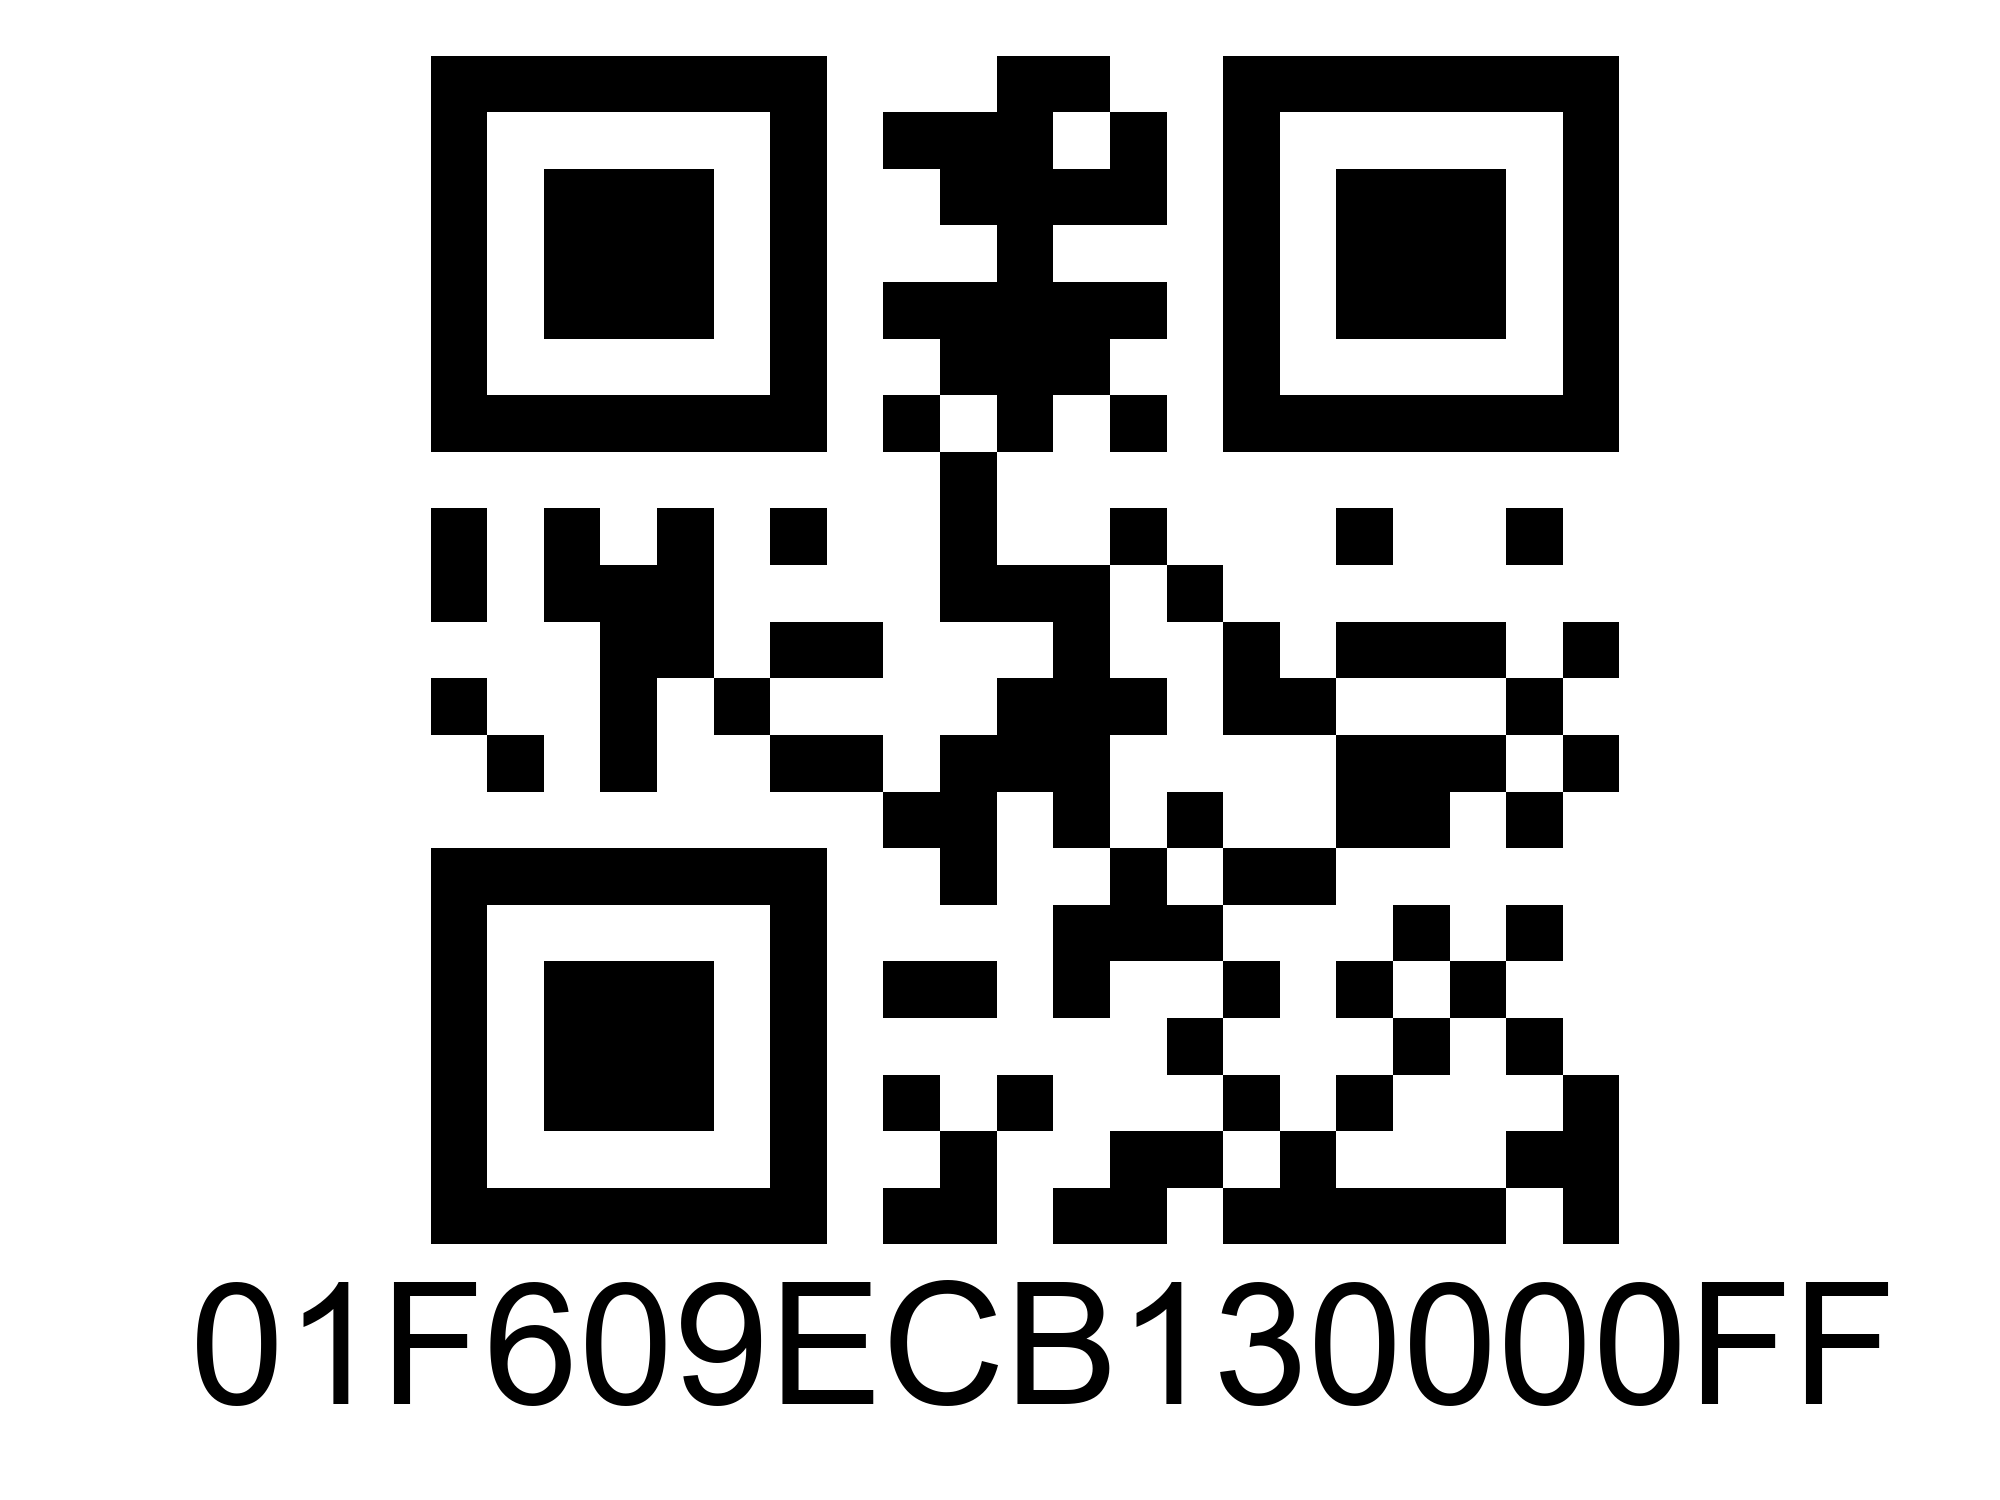
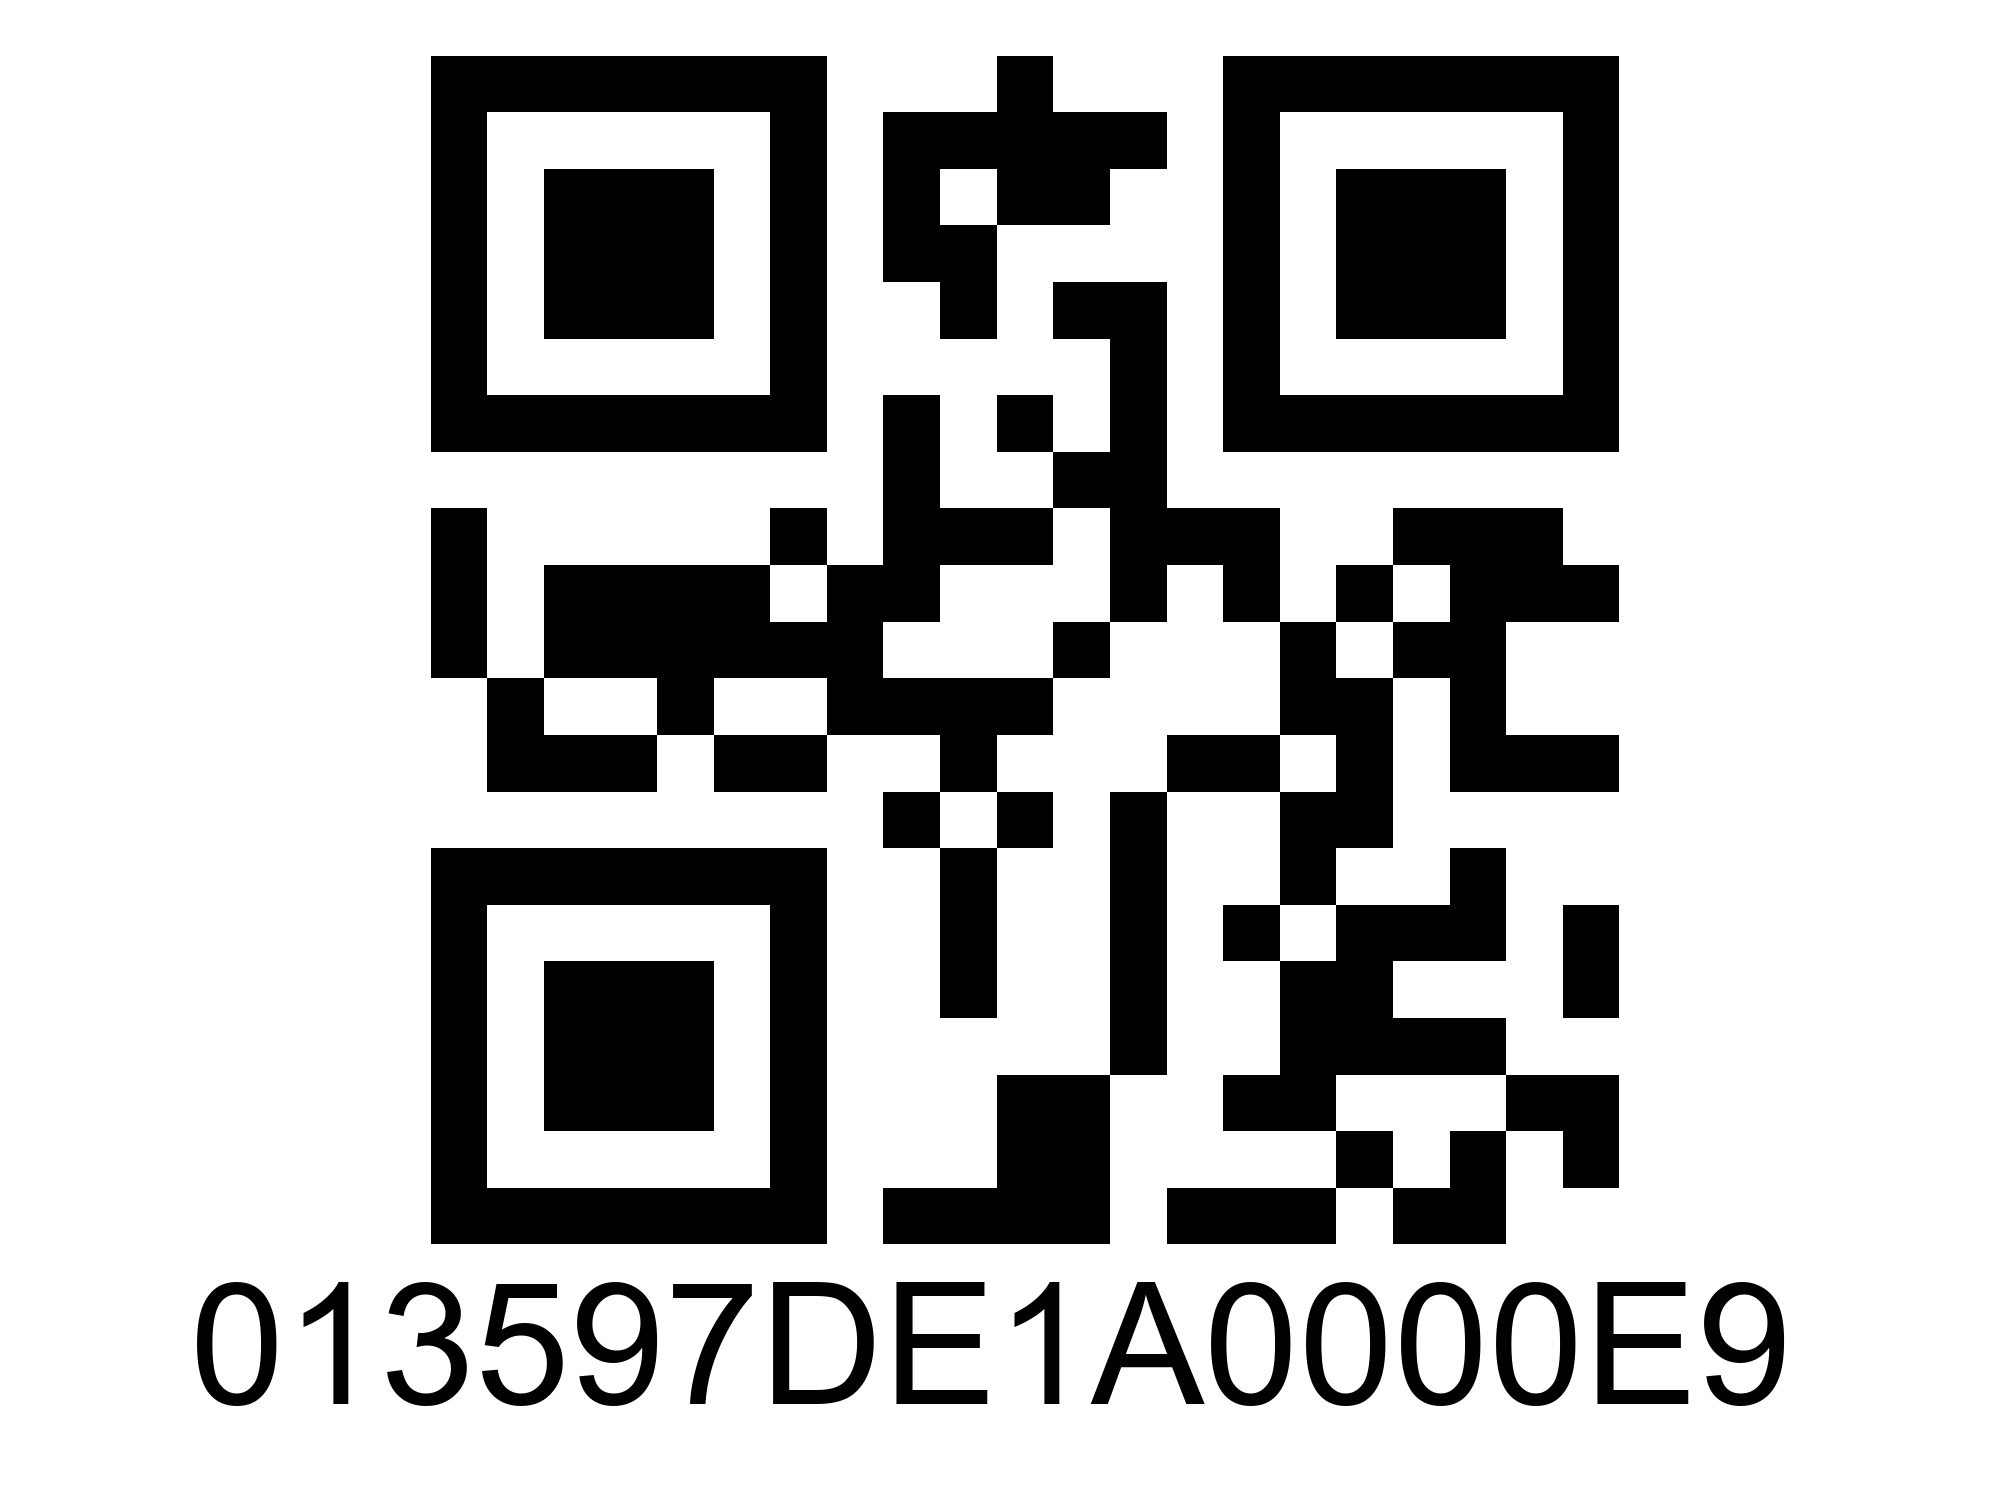
The customer disided which one it needs, so the first set sent

Changed region(s): [[0.186, 0.092, 0.93, 0.9507], [0.527, 0.0307, 0.589, 0.1533]]

diff --git a/CollectingMAC_4.py b/CollectingMAC_4.py
@@ -55,5 +55,5 @@ with open('input.txt') as f:
 
         counter += 1
 
-        testImage.show()
-        testImage.save('qr4.png', "PNG")
+
+        testImage.save('first_set\qr{}.png'.format(s[2:6]), "PNG")
